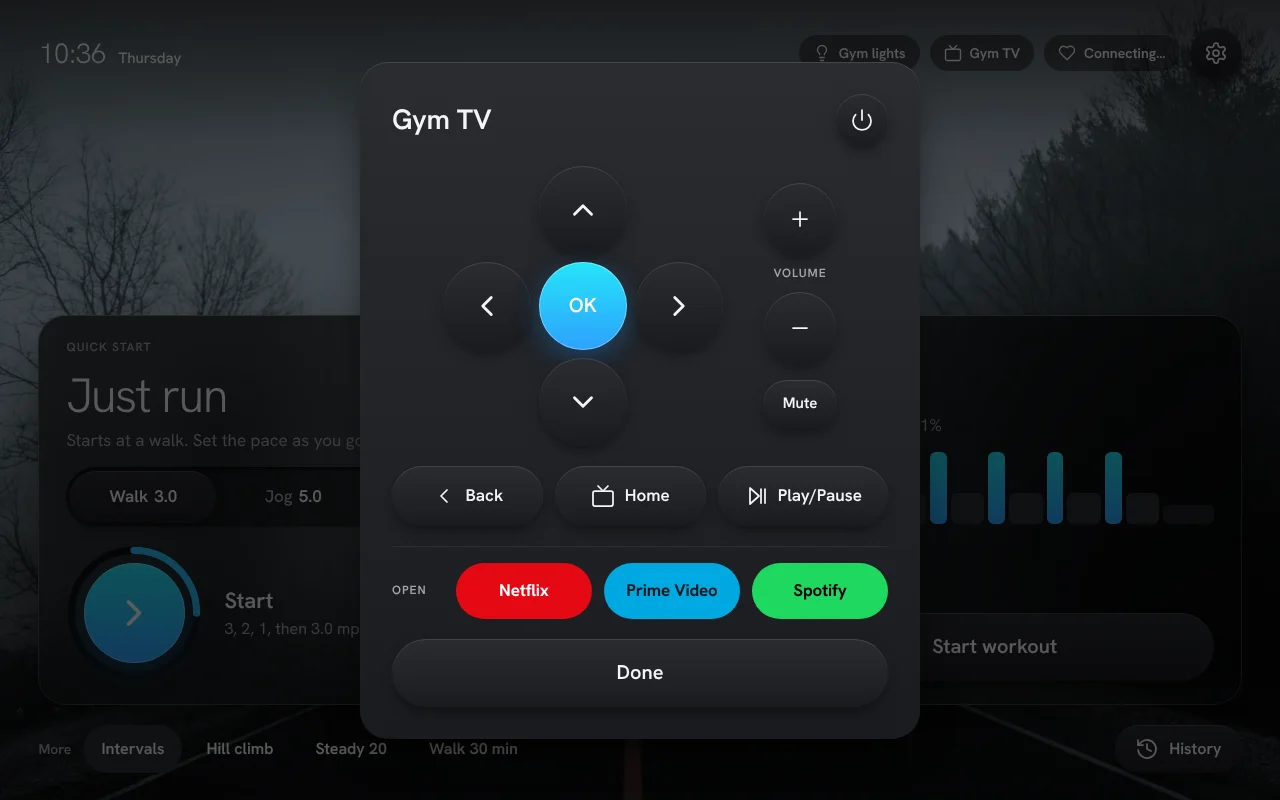
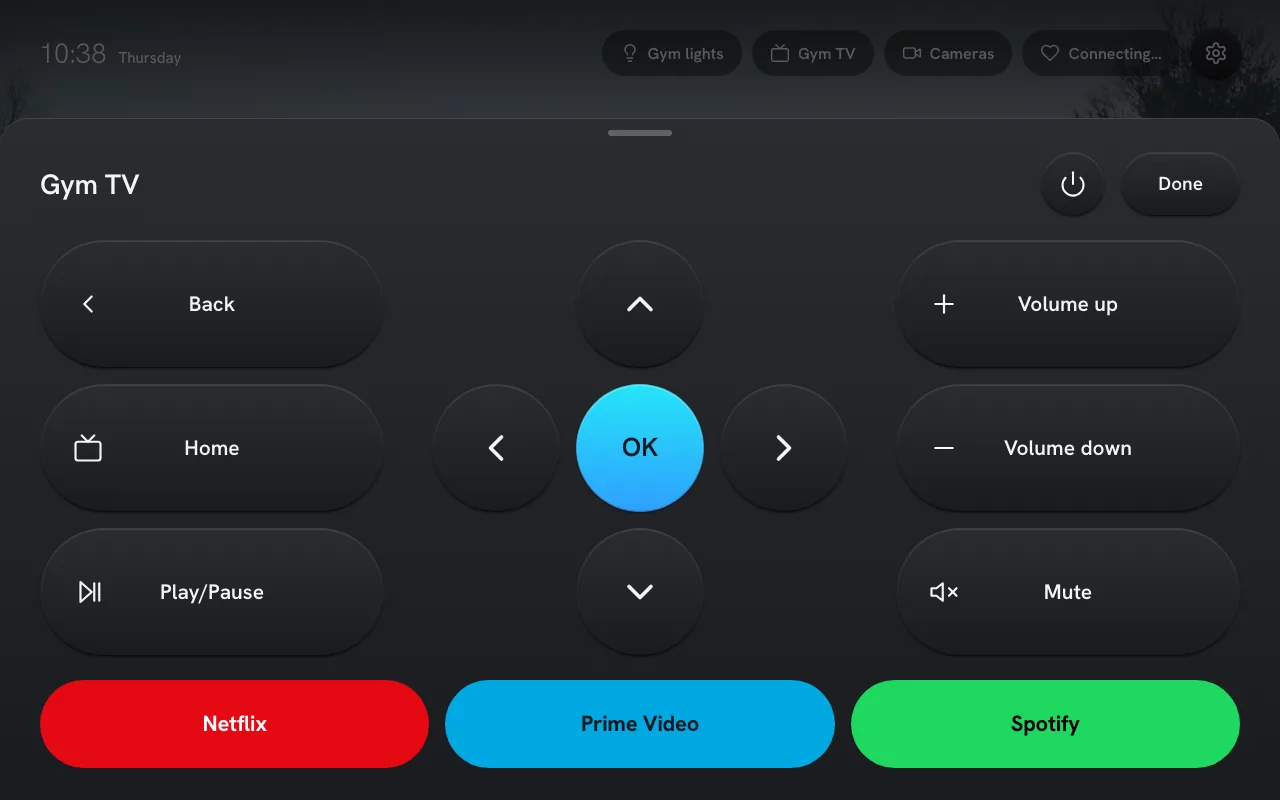
Site: retake the screenshots with the new buttons
All six images, from the web console's own demo modes at 1280x800, with the same photo, sample data
and clock time as before. They also pick up what's changed since the last ones, such as Goal and Adjust
on Home and the TV remote's full-width sheet. CLAUDE.md now says how to retake them.

diff --git a/CLAUDE.md b/CLAUDE.md
@@ -39,7 +39,7 @@ put a key, a keystore, an APK, a home address or an account id in this repo; it 
 - Test the UI in Playwright with a mocked `window.DeckNative` (see the bridge methods in `MainActivity.Bridge`); push state with `window.__deckNative({...})` and `window.__deckHr({...})`. Without the bridge, `?demo=run|workout|paused|done` seeds a screen.
 - Before UI work read the Cabin skill (`../cabin/skills/cabin/SKILL.md`: rules, components, tokens).
 - The UI is Cabin's Lit finish (Cabin 0.23.0 as of 1.8.0; the version is in the `/* Cabin x.y.z */` line after `cabin:start`): tokens and `cb-*` classes are inlined between `/* cabin:start */` and `/* cabin:end */`; re-run `node ../cabin/scripts/inline.mjs c1250-deck.html --with-components` after a Cabin release. Keep page CSS to what Chrome 80 handles: no `inset`, `aspect-ratio`, `color-mix`, `:has`, and no blur while running. Check with `node ../cabin/skills/cabin/scripts/cabin-lint.mjs c1250-deck.html` (zero errors before shipping; no typed-in colours; third-party brand colours are `--paint-*`).
-- **Buttons** (1.14.0): main (`.cta`, `.cb-btn--default`) and raised (`.raised`, `.cb-btn--secondary`, `.cb-stepper__btn`, the picked `.seg` button) get their depth from the edges, not a glow: the fill, a 1px gradient border (`padding-box` fill over `border-box` edge, which also stops Cabin's gradient repeating under its transparent border), a 1px inner line light on top and faintly dark underneath, and a faint neutral shadow. The main button keeps the aqua-to-blue fill with a dark label in every theme and finish. It's a `--paint-*` block on top of Cabin, outside the `cabin:` markers so re-inlining keeps it, repeated in `c1250-deck.html`, `phone.html` and `site/index.html`: change all three together. Cabin itself and its other apps still have the old look. The site's screenshots in `site/img/` show the old buttons until they're retaken.
+- **Buttons** (1.14.0): main (`.cta`, `.cb-btn--default`) and raised (`.raised`, `.cb-btn--secondary`, `.cb-stepper__btn`, the picked `.seg` button) get their depth from the edges, not a glow: the fill, a 1px gradient border (`padding-box` fill over `border-box` edge, which also stops Cabin's gradient repeating under its transparent border), a 1px inner line light on top and faintly dark underneath, and a faint neutral shadow. The main button keeps the aqua-to-blue fill with a dark label in every theme and finish. It's a `--paint-*` block on top of Cabin, outside the `cabin:` markers so re-inlining keeps it, repeated in `c1250-deck.html`, `phone.html` and `site/index.html`: change all three together. Cabin itself and its other apps still have the old look. The site's screenshots in `site/img/` were retaken with these buttons on 6 Nov 2026, from the web console's own demo modes at 1280×800 with the clock fixed: `?demo=tour&photo=fog-road&history=sample` for Home, once the tour has picked Incline; `?demo=run`; `?demo=workout`; `?demo=done`; `?history=sample&photo=fog-road`, then History; and the TV remote, which only exists with a pretend `DeckNative` behind the page. Saved with `cwebp -q 82 -m 6`. Retake them when the UI changes noticeably.
 - Done shows the run over time: the loop samples speed, incline and heart rate every 5 s into `S.trace` and adds seconds per zone to `S.zoneT`; `paintDone` draws a Cabin chart and `cb-zones` for runs of 2 minutes or more. `?demo=done` seeds a full Intervals run.
 - The console's WebView has **no flex gap** (Chrome < 84): the page measures it and adds `no-flexgap` to `<html>`, and `.no-flexgap` rules space icons, badges, steppers and button rows with margins. Anything new that relies on flex `gap` needs a rule there (grid gap is fine).
 - `[hidden]{display:none !important}` must stay: the overlays set `display:flex`, which otherwise beats `hidden`.
